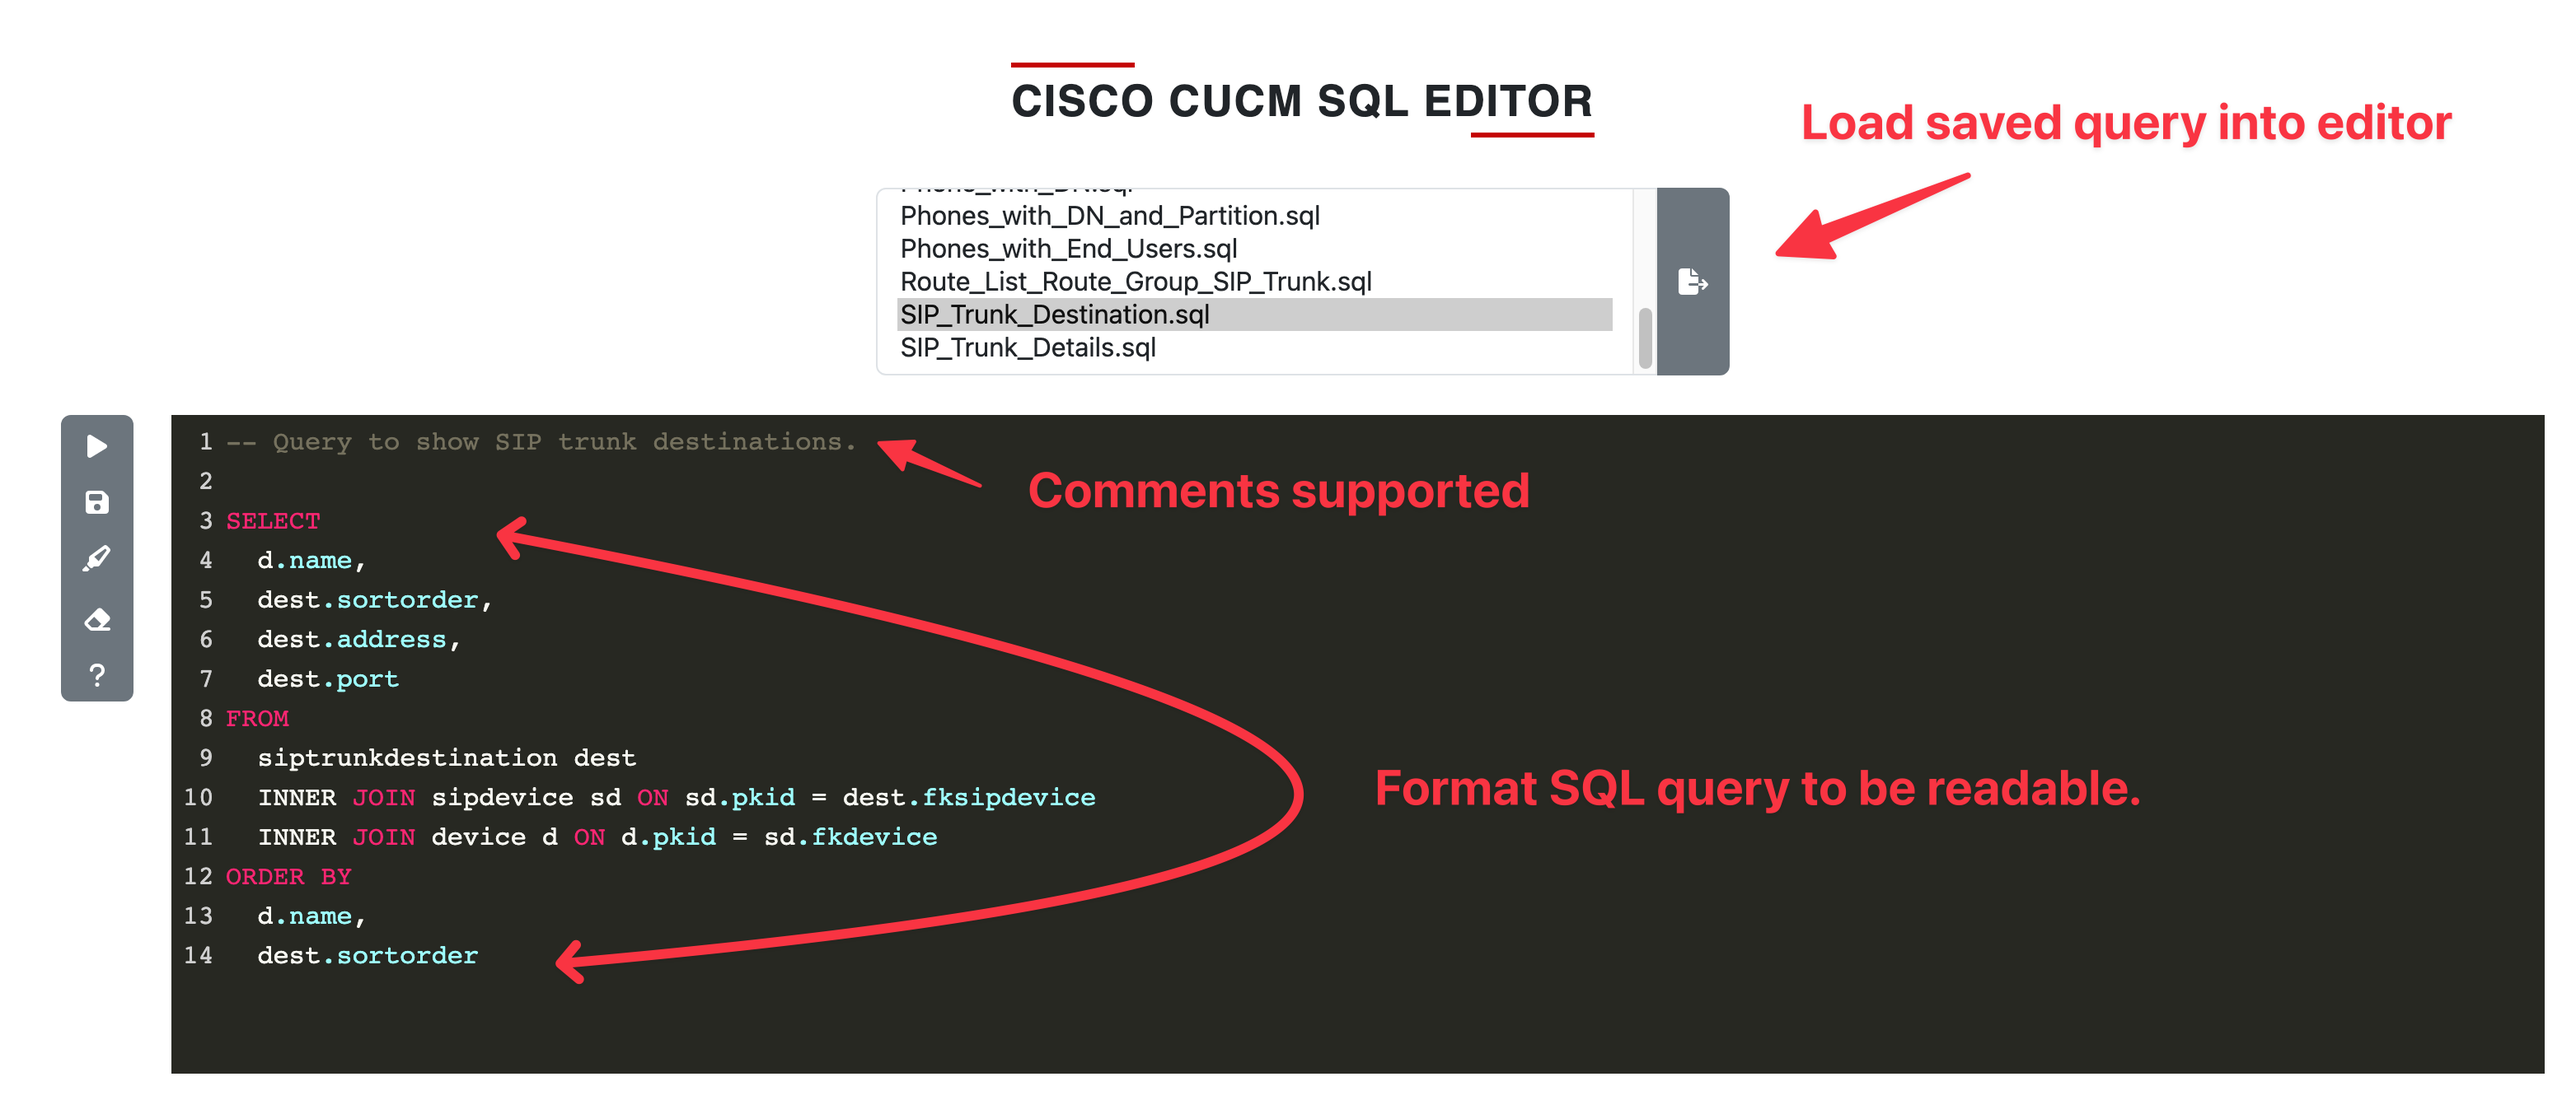
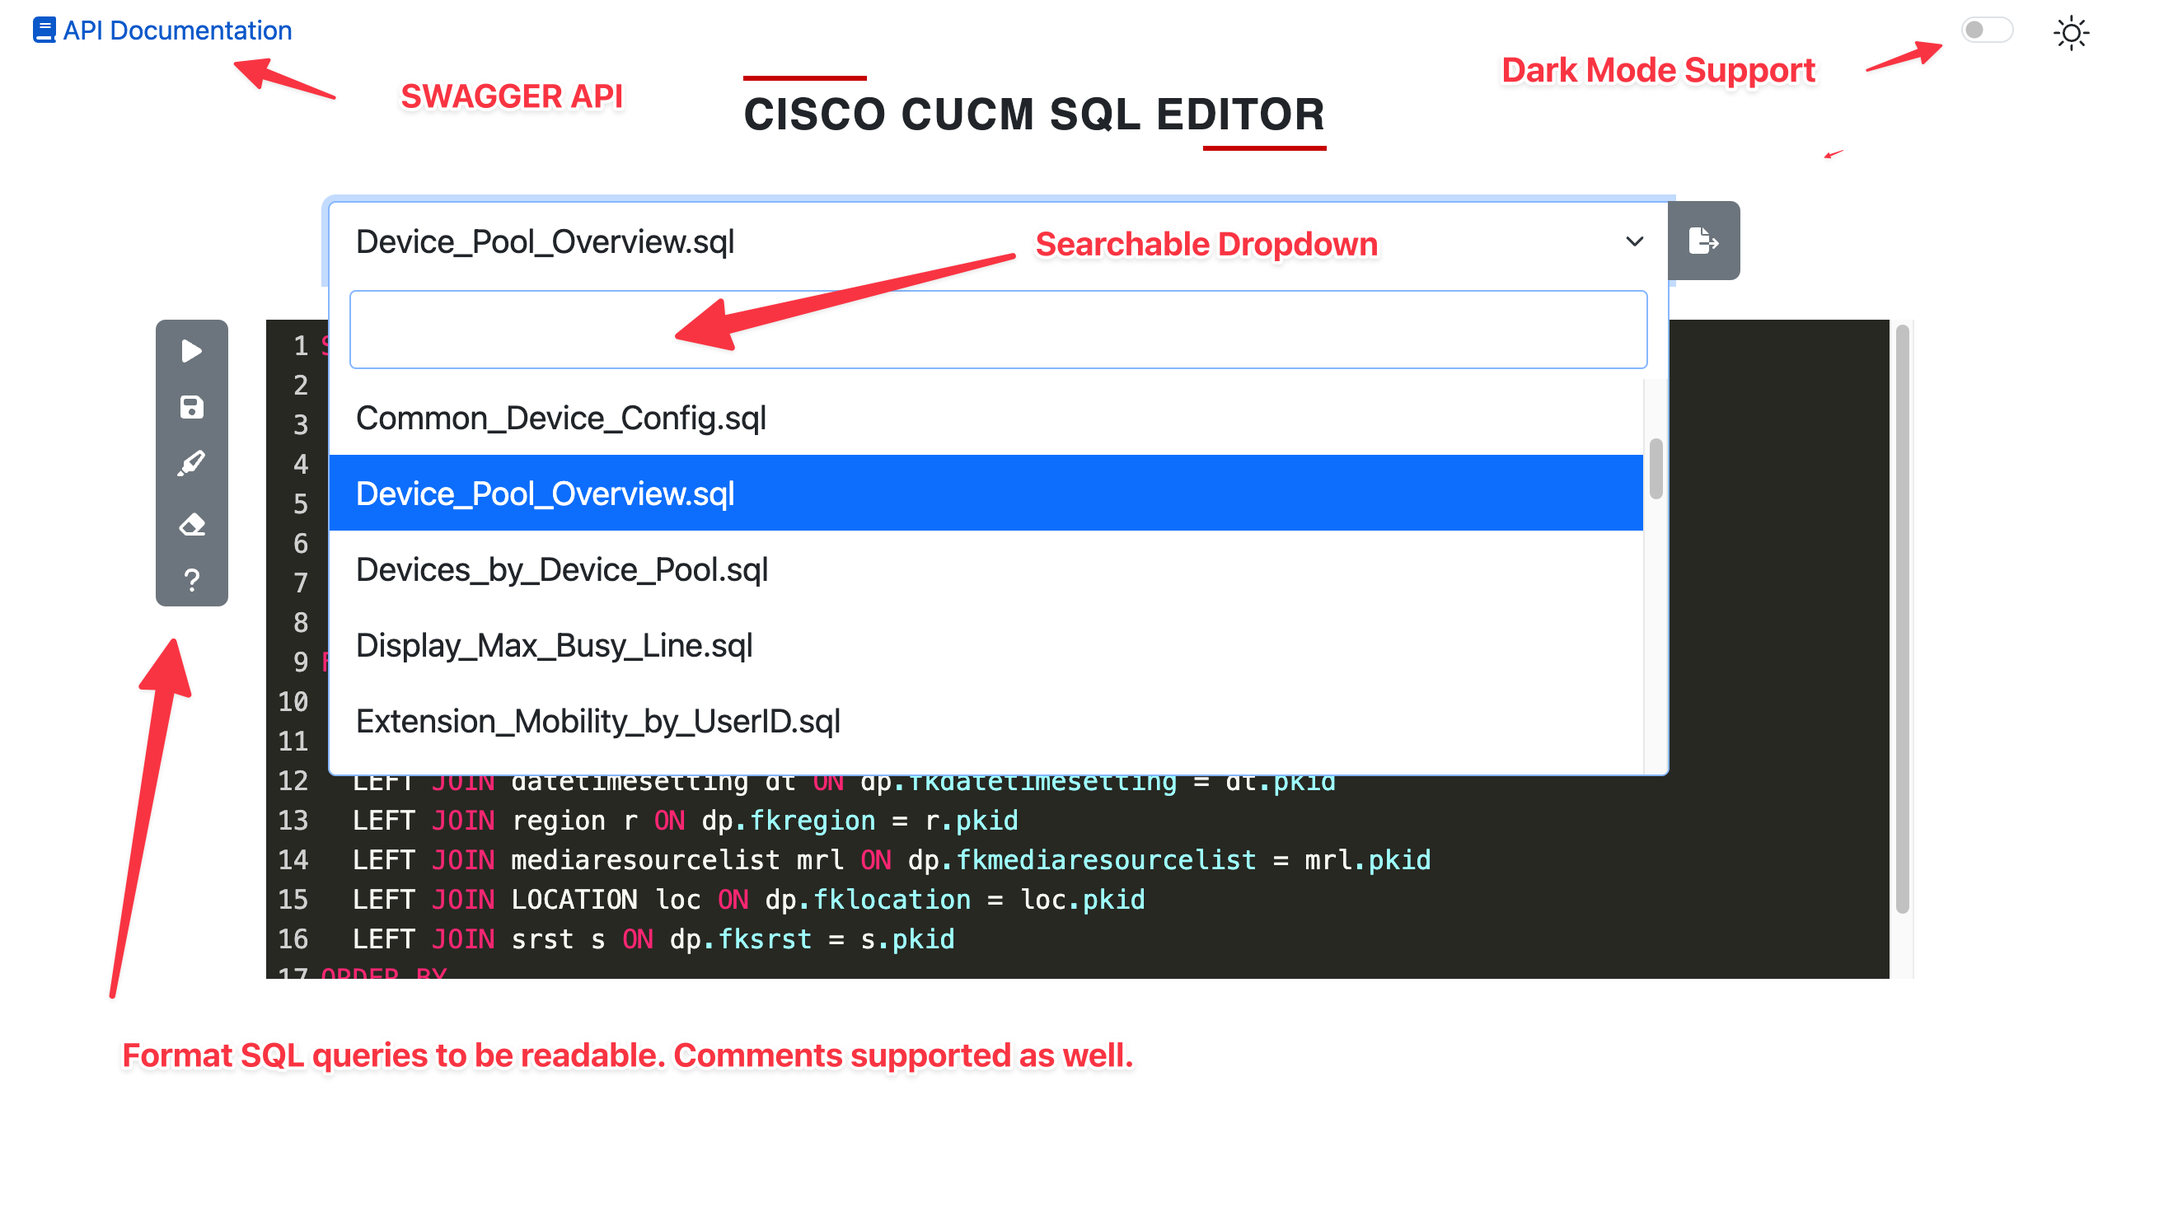
Updated Select2 and added new Queries

diff --git a/public/js/main.js b/public/js/main.js
@@ -8,10 +8,11 @@ document.addEventListener(
   function () {
     console.log("Page Loaded");
 
+    // https://apalfrey.github.io/select2-bootstrap-5-theme/examples/sizing/
     $(document).ready(function () {
       $("#selectQuery").select2({
         theme: "bootstrap-5",
-        width: "450px",
+        width: $( this ).data( 'width' ) ? $( this ).data( 'width' ) : $( this ).hasClass( 'w-100' ) ? '100%' : 'style',
         placeholder: $(this).data("placeholder"),
         selectionCssClass: "select2--large",
         dropdownCssClass: "select2--large",

diff --git a/public/stylesheets/style.css b/public/stylesheets/style.css
@@ -202,3 +202,14 @@ h1 em {
 .comments{
   color: red;
 }
+
+/* === Select 2 Resize fix === */
+.input-group .select2-container {
+  position: relative;
+  z-index: 2;
+  float: left;
+  width: 100%;
+  margin-bottom: 0;
+  display: table;
+  table-layout: fixed;
+}
